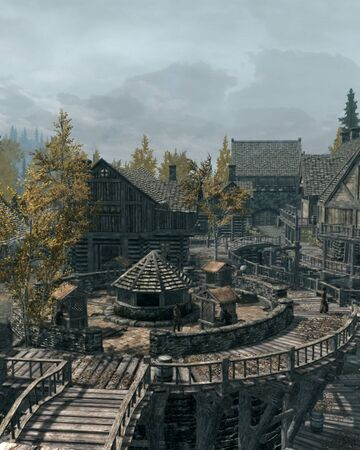
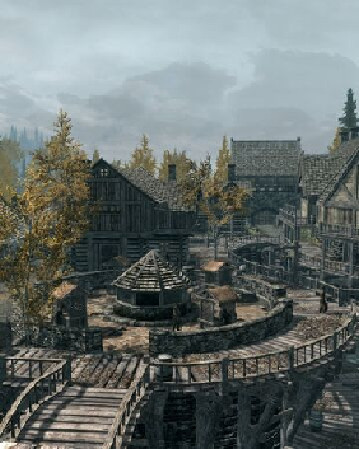
cambios en css de imagenes

diff --git a/Skyrim.html b/Skyrim.html
@@ -59,7 +59,7 @@
 									<hr class="major" />
 
 									<h2>Lucero del alba</h2>
-									<span class="image_left main"><img src="images/lucero_alba.png" alt="" /></span>
+									<span class="image_right main"><img src="images/lucero_alba.png" alt="" /></span>
 									<p>Lucero del Alba es una de las ciudades más importantes de la provincia de Skyrim. Es una de las ciudades con clima más inhóspito, puesto que vive permanentemente cubierta de nieve; pero a pesar de ello es un puerto importante en el comercio con otras regiones. Es la capital de la comarca de El Pálido.</p>
 									<p>La ciudad se encuentra en una pequeña bahía natural en la región central de Skyrim septentrional. Gracias a esto y la riqueza mineral de la zona, ha hecho que Lucero del Alba sea un asentamiento favorecido en el comercio de metales. Para la Cuarta Era se sabe que había dos minas distintas funcionando en la ciudad: la Mina de azogue y la Mina Rompedor de hierro.</p>
 									<hr class="major" />
@@ -67,23 +67,23 @@
 									<h2>Soledad</h2>
 									<span class="image main"><img src="images/soledad.png" alt="" /></span>
 									<p>Soledad es la capital de la provincia imperial de Skyrim. En ella se asienta el Rey Supremo de Skyrim, que suele ser un gobernante cercano al poder imperial, a pesar de ser elegido en Asamblea por los jarls de las demás comarcas de Skyrim.</p>
-									<p>Situada sobre un arco natural de piedra, su situación la hace prácticamente inexpugnable desde el exterior. Destaca su gran molino, una de sus características más notables.</p>>
+									<p>Situada sobre un arco natural de piedra, su situación la hace prácticamente inexpugnable desde el exterior. Destaca su gran molino, una de sus características más notables.</p>
 									<p>Más abajo se encuentra su puerto, que es uno de los más importantes de Tamriel y el de más tráfico de Skyrim, que da al Mar de los Fantasmas. Desde aquí se conquistó la isla de Roscrea en la Tercera Era. No muy lejos está el Faro de Soledad, el cual guía a los barcos en la oscuridad hacia la ciudad.</p>
 									<hr class="major" />
 
 									<h2>Markarth</h2>
-									<span class="image main"><img src="images/markarth.jpeg" alt="" /></span>
+									<span class="image_right main"><img src="images/markarth.jpeg" alt="" /></span>
 									<p>Markarth fue una ciudad formada por Nchuand Zel, perteneciente a los antiguos dwemer, residentes de Morrowind, Skyrim y Páramo del Martillo durante la Primera Era, y cuyos orígenes se sitúan en la región del oeste central de Skyrim, la residencia de las tribus nórdicas.</p>
 									<p>Tras la desaparición de los dwemer de Nirn, tras su intención de controlar Numidium, Markarth fue abandonada hasta el surgimiento del Imperio Septim, el tercero de los imperios de Cyrodiil, con Tiber Septim como líder, y su sucesor Pelagio Septim. Tiber estableció el Colegio imperial de la Voz en Markarth, donde, más tarde, se atrajo a los nórdicos a establecerse como una de sus nueve ciudades en Skyrim.</p>
 									<hr class="major" />
 
 									<h2>Riften</h2>
-									<span class="image main"><img src="images/riften.jpg" alt="" /></span>
+									<span class="image_left main"><img src="images/riften.jpg" alt="" /></span>
 									<p>Antiguamente un importante centro de comercio, en la Cuarta Era fue destruida por un incendio que obligó a reconstruir la antaño orgullosa ciudad en materiales pobres y precarios. Fue debido al periodo de gobierno del jarl Hosgunn Dagas Cruzadas, que ascendió al trono en el 98 de la CE y gobernó de un modo despótico hasta el 129, cuando el pueblo de Riften se rebeló contra su tiranía.</p>
 									<hr class="major" />
 
 									<h2>Morthal</h2>
-									<span class="image main"><img src="images/morthal.png" alt="" /></span>
+									<span class="image_right main"><img src="images/morthal.png" alt="" /></span>
 									<p>El pueblo se encuentra junto a un pantano, en la Marca de Hjaal, aislado de otros pueblos. Pese a ello, la jarl gobernante Idgrod Cuervo Viejo parece apoyar al Imperio y mantener buenas relaciones con las demás comarcas.</p>
 									<p>En un extremo de la ciudad, una casa derruida por un incendio permanece abandonada en la nieve. Los residentes siguen hablando del escándalo en torno a esta casa, donde murieron una madre y su hija, y cuentan que el padre (Hroggar) se trasladó casi inmediatamente a vivir con otra mujer del pueblo.</p>
 									<hr class="major" />

diff --git a/Historia.html b/Historia.html
@@ -37,8 +37,7 @@
 										<h2>Historia Principal</h2>
 									</header>
 
-									<span class="image main"><img src="images/SK2.jpg" alt="" /></span>
-
+									<span class="image_center main"><img src="images/SK2.jpg" alt="" /></span>
 									<p>Skyrim tiene lugar doscientos años después de lo ocurrido en Oblivion por lo que no es una continuación o secuela. El juego se asienta en los terrenos de la provincia de Skyrim, que se encuentra en plena guerra civil fratricida entre dos facciones enfrentadas política y militarmente: «Los capas de la tormenta» que agrupa a la raza «nórdica» autóctona de Skyrim de un lado, y del otro «El Imperio de Cyrodiil».</p>
 									<hr class="major" />
 

diff --git a/assets/css/main.css b/assets/css/main.css
@@ -2123,7 +2123,7 @@ input, select, textarea {
 		}
 
 			.image.main img {
-				width: 100%;
+				width: 50%;
 			}
 
 	a.image {
